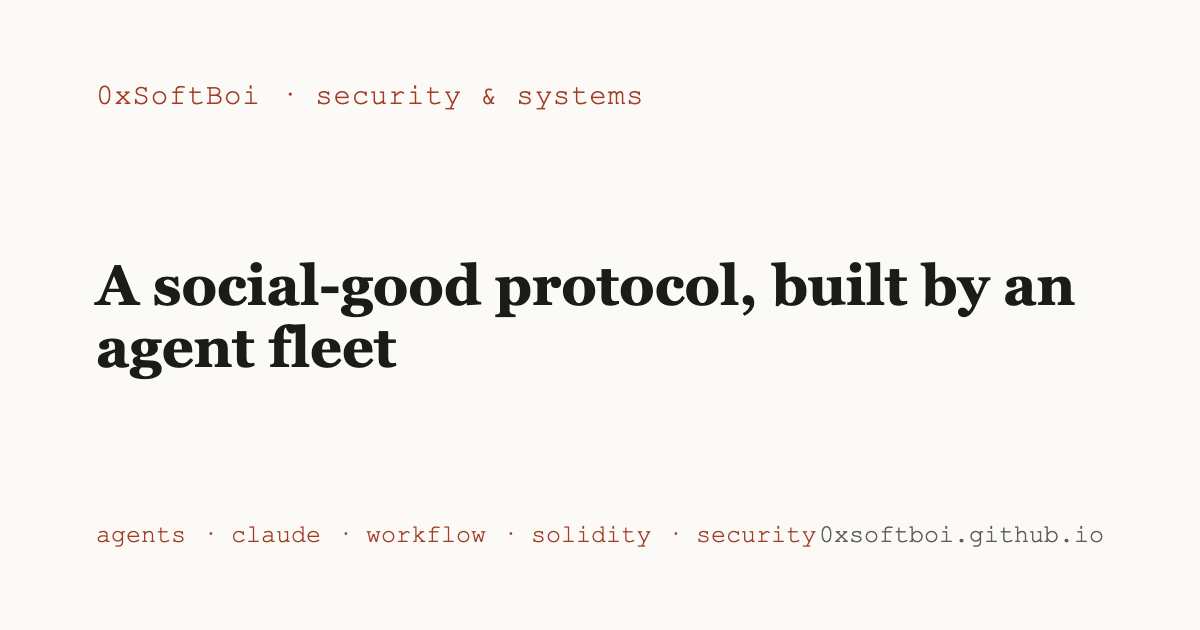
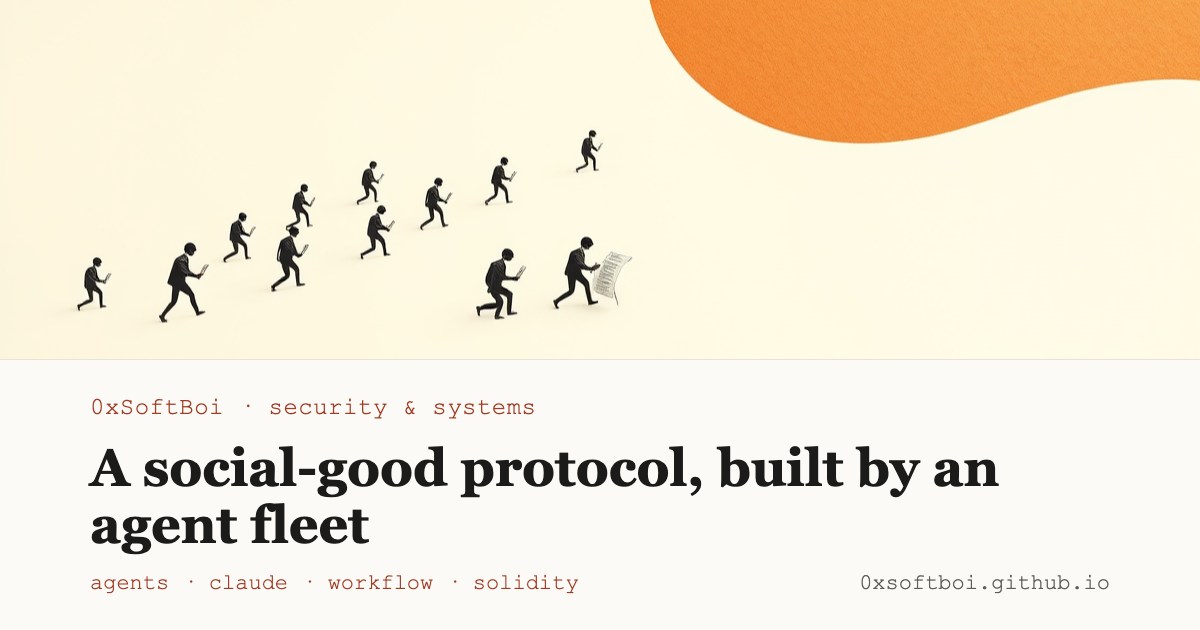
Themed art + series for the two new posts
Themed OG cards + in-page hero art for "Rebuilding a perps DEX from its docs"
and "A social-good protocol, built by an agent fleet"; series for the latter.

diff --git a/_charts/gen_post_art.py b/_charts/gen_post_art.py
@@ -45,6 +45,8 @@ MOTIFS = {
     "anatomy-of-a-memecoin-honeypot": "a honeypot jar trapping a coin behind a one-way valve",
     "the-bridge-that-paid-twice": "a bridge paying out twice across a forked chain after a reorg",
     "the-index-fund-that-held-the-wrong-asset": "a basket of asset tokens that is secretly empty, a mismatched gauge",
+    "rebuilding-a-perps-dex-from-its-docs": "a perpetual-futures price chart reconstructed from blueprint documents, a hidden house-edge tilt",
+    "a-social-good-protocol-built-by-an-agent-fleet": "a fleet of small agent nodes collaboratively assembling a contract, one node inspecting another's work",
 }
 
 

diff --git a/_posts/2026-06-09-a-social-good-protocol-built-by-an-agent-fleet.md b/_posts/2026-06-09-a-social-good-protocol-built-by-an-agent-fleet.md
@@ -2,6 +2,7 @@
 layout: post
 title: "A social-good protocol, built by an agent fleet"
 date: 2026-06-09
+series: "Applied ML"
 tags: [agents, claude, workflow, solidity, security]
 image: /assets/og/a-social-good-protocol-built-by-an-agent-fleet.png
 excerpt: "I had an empty repo and pointed a multi-agent workflow at it. The result was a tested rewards protocol — but the part worth writing down is which model sat in which seat, and the bug the auditor caught that the builder wrote."
